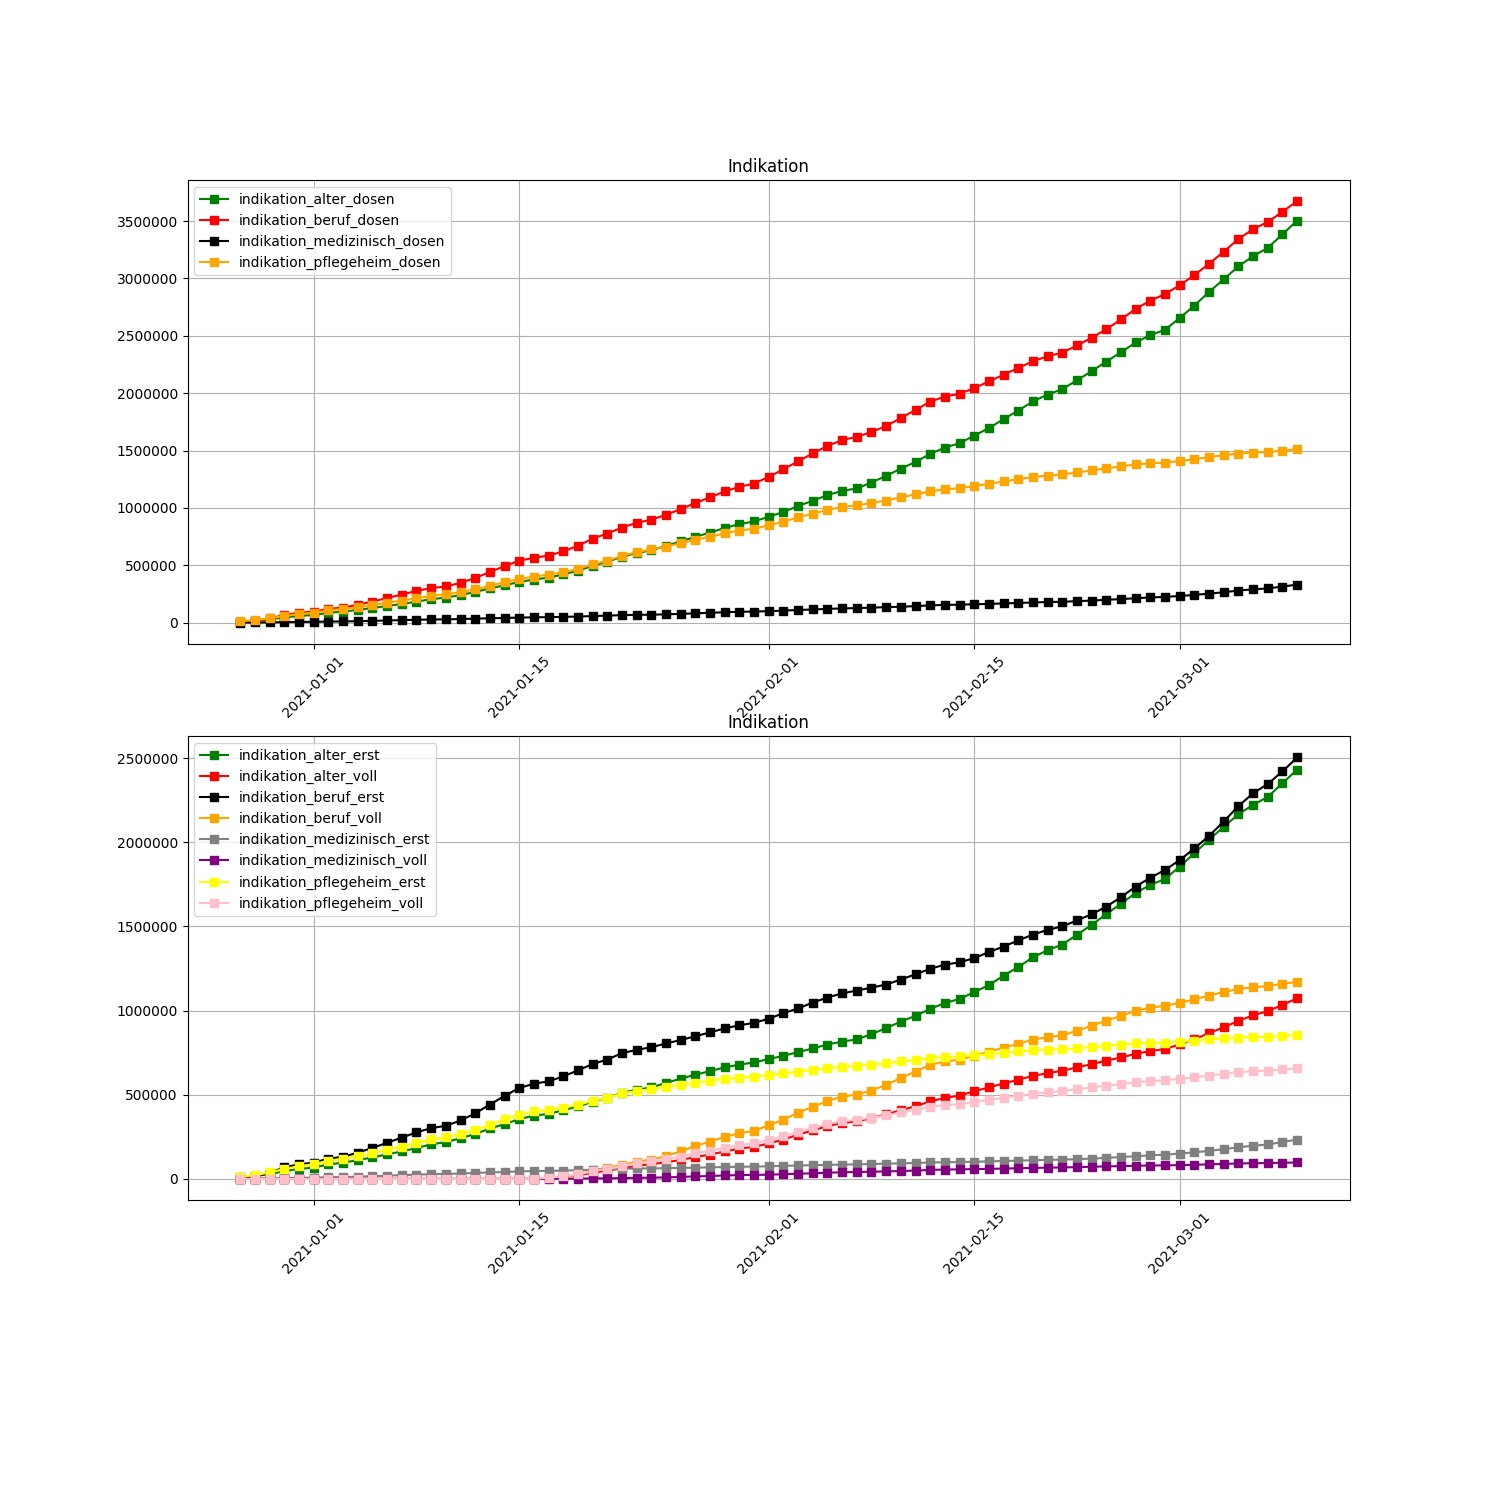
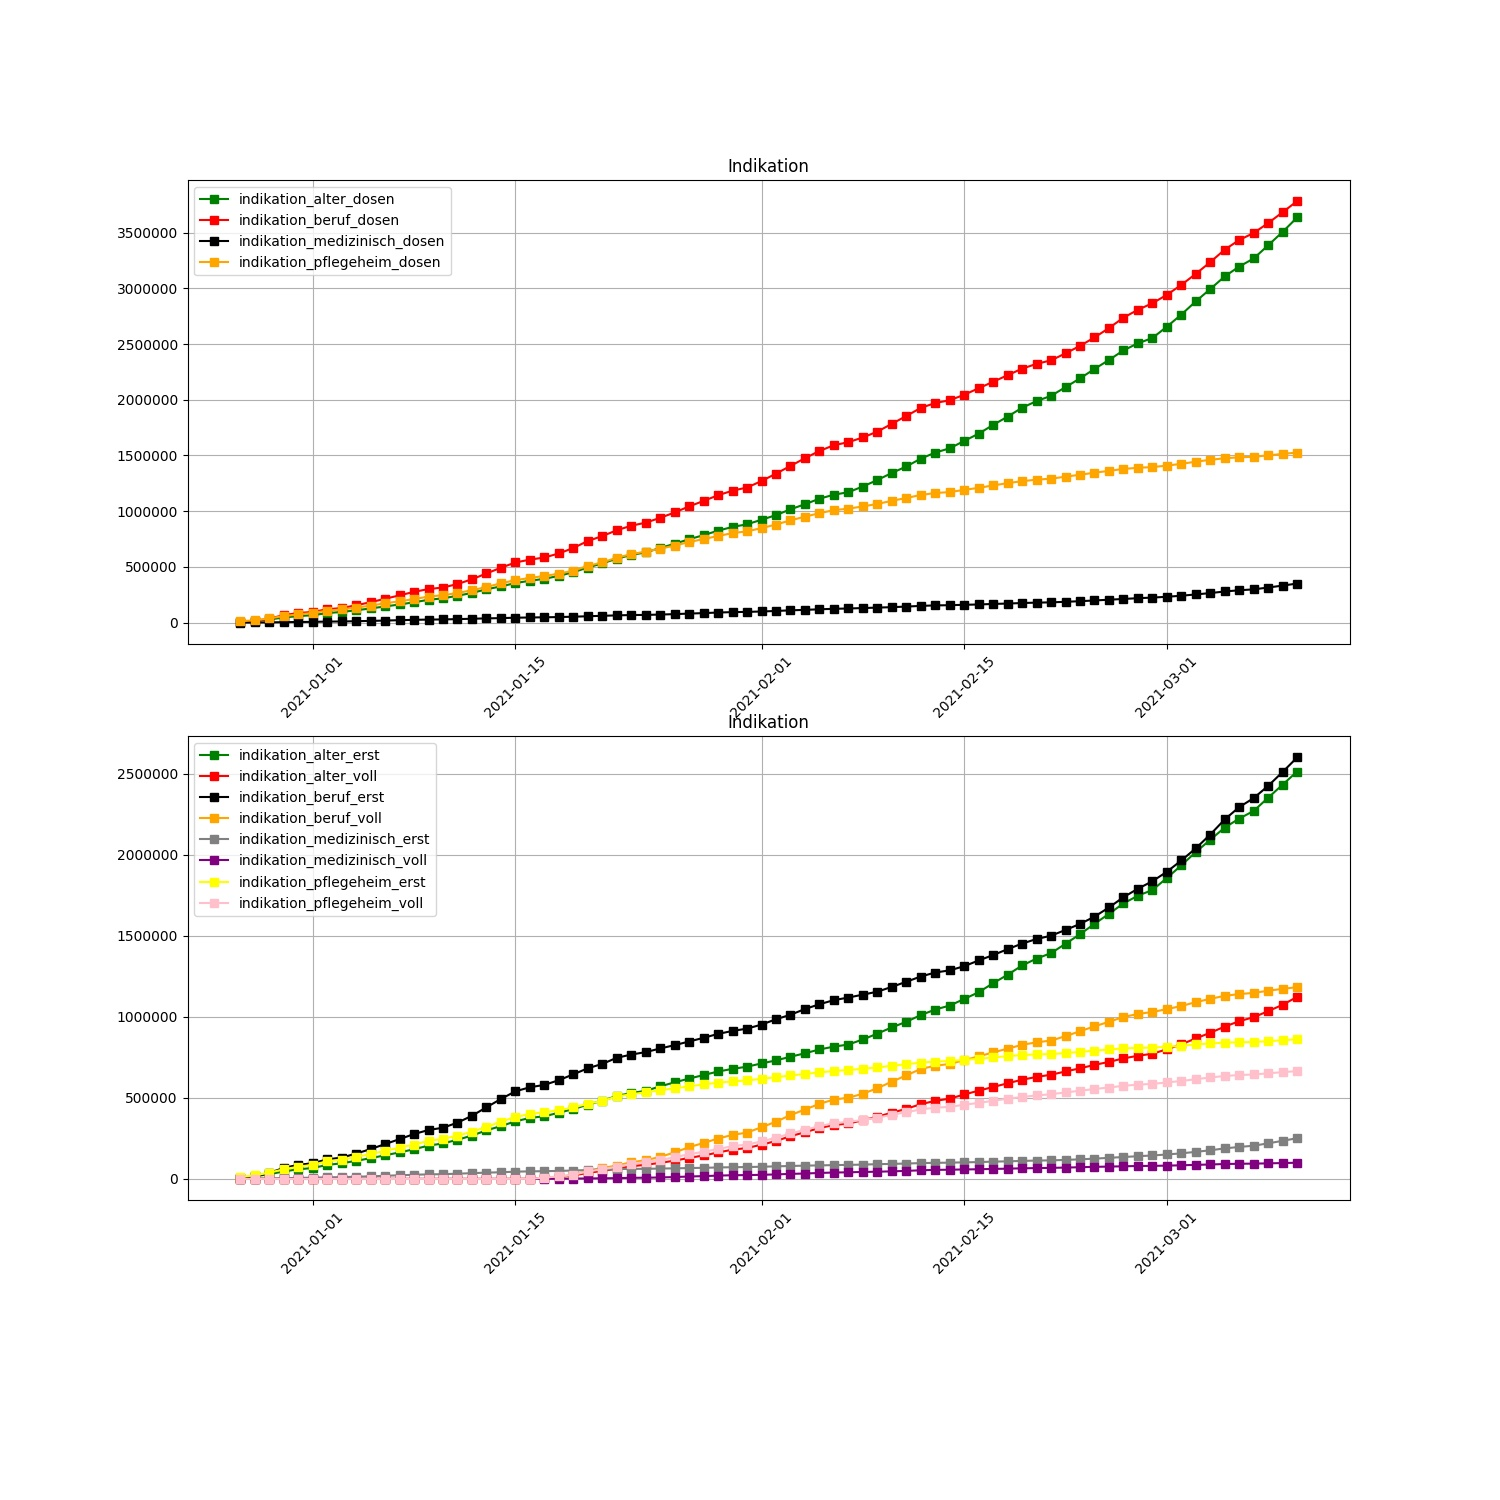
Crontab commit

diff --git a/Readme.md b/Readme.md
@@ -1,19 +1,19 @@
-# Corona vaccine Germany - Stand 2021-03-09
+# Corona vaccine Germany - Stand 2021-03-10
 ## Dashboard by [Simon Hamacher](https://www.shamacher.eu)
 ## Impfstoffe Übersicht
 **Impfstoffhersteller** | **verimpfte Dosen**
 -------- | :--------:
-Biontech | 6768884
-Moderna | 264865
-Astrazeneca | 1127489
+Biontech | 6926842
+Moderna | 275631
+Astrazeneca | 1228791
 
 
 ## Quoten
-**Total Verimpfte Dosen:** | 8161238
+**Total Verimpfte Dosen:** | 8431264
 -------- | :--------:
-**Erst-Impfquote** | 6.68 %
-**Voll-Impfquote** | 3.13 %
-**Imfungen Durchschnitt** | 111797.78 pro Tag
+**Erst-Impfquote** | 6.92 %
+**Voll-Impfquote** | 3.22 %
+**Imfungen Durchschnitt** | 113936.00 pro Tag
 ## Graphen
 <img src="Impfungen-Corona-01.jpg" alt="Corona-1" title="optionaler Titel" />
 <img src="Impfungen-Corona-02.jpg" alt="Corona-2" title="optionaler Titel" />
